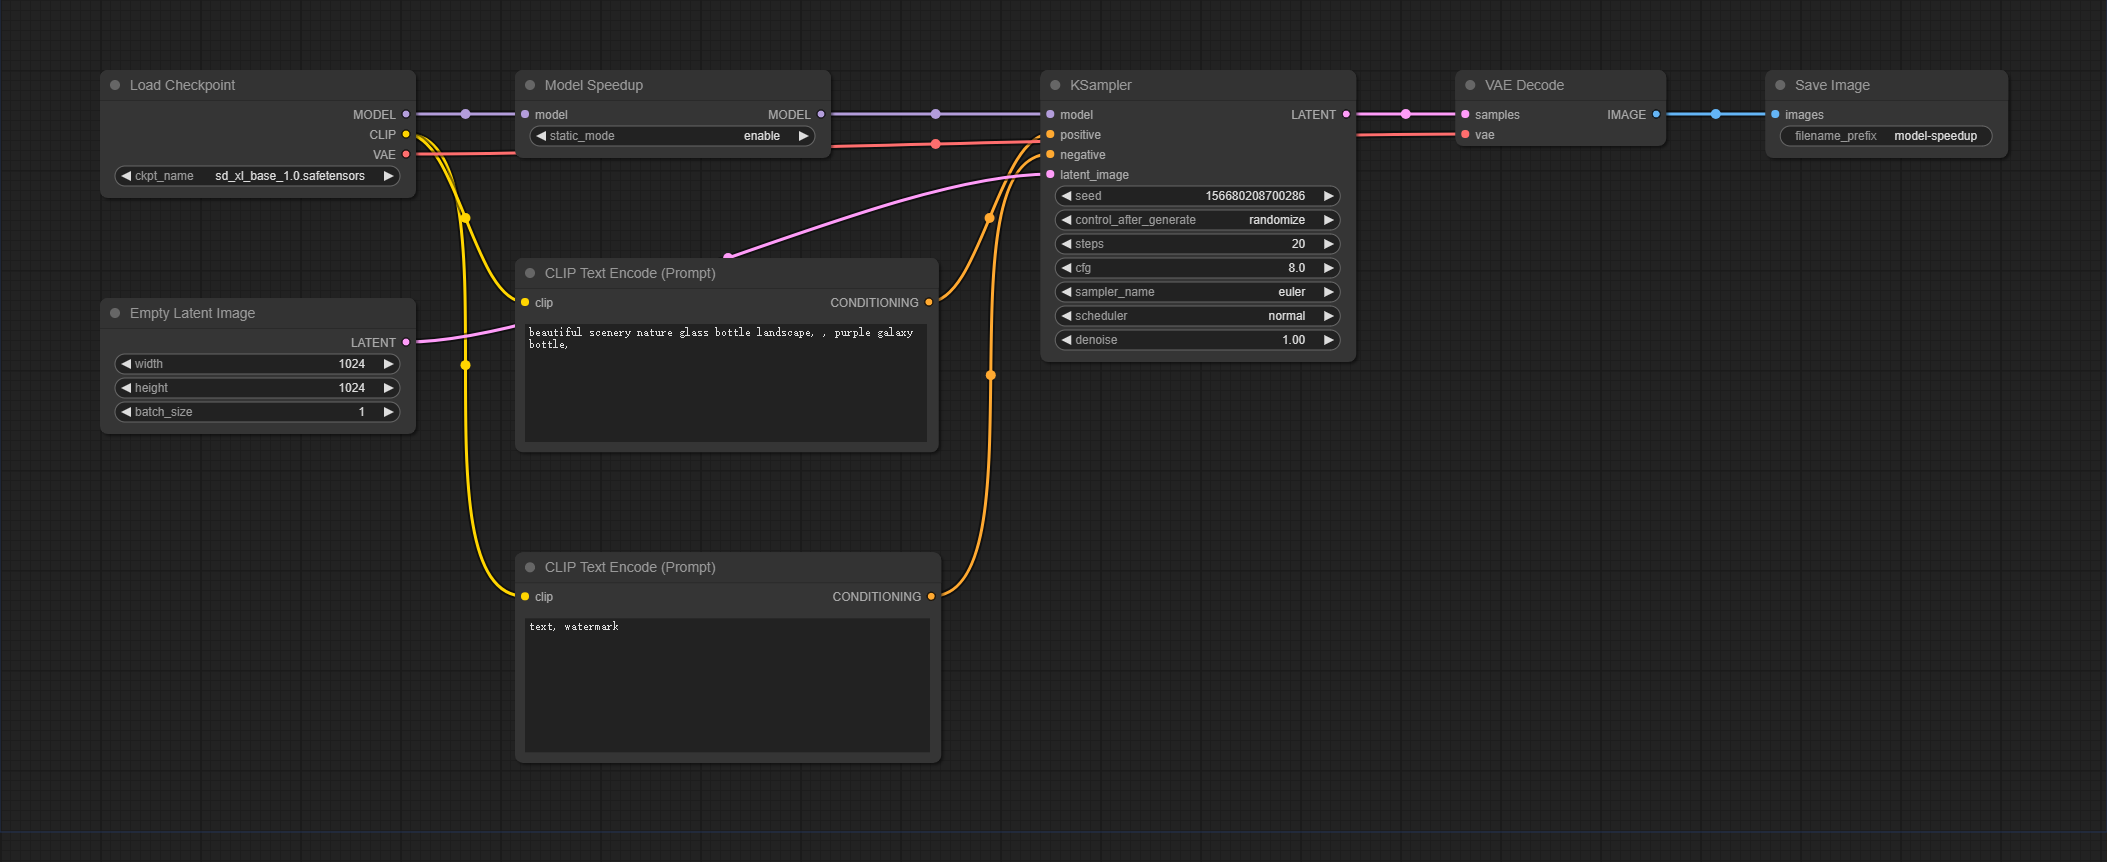
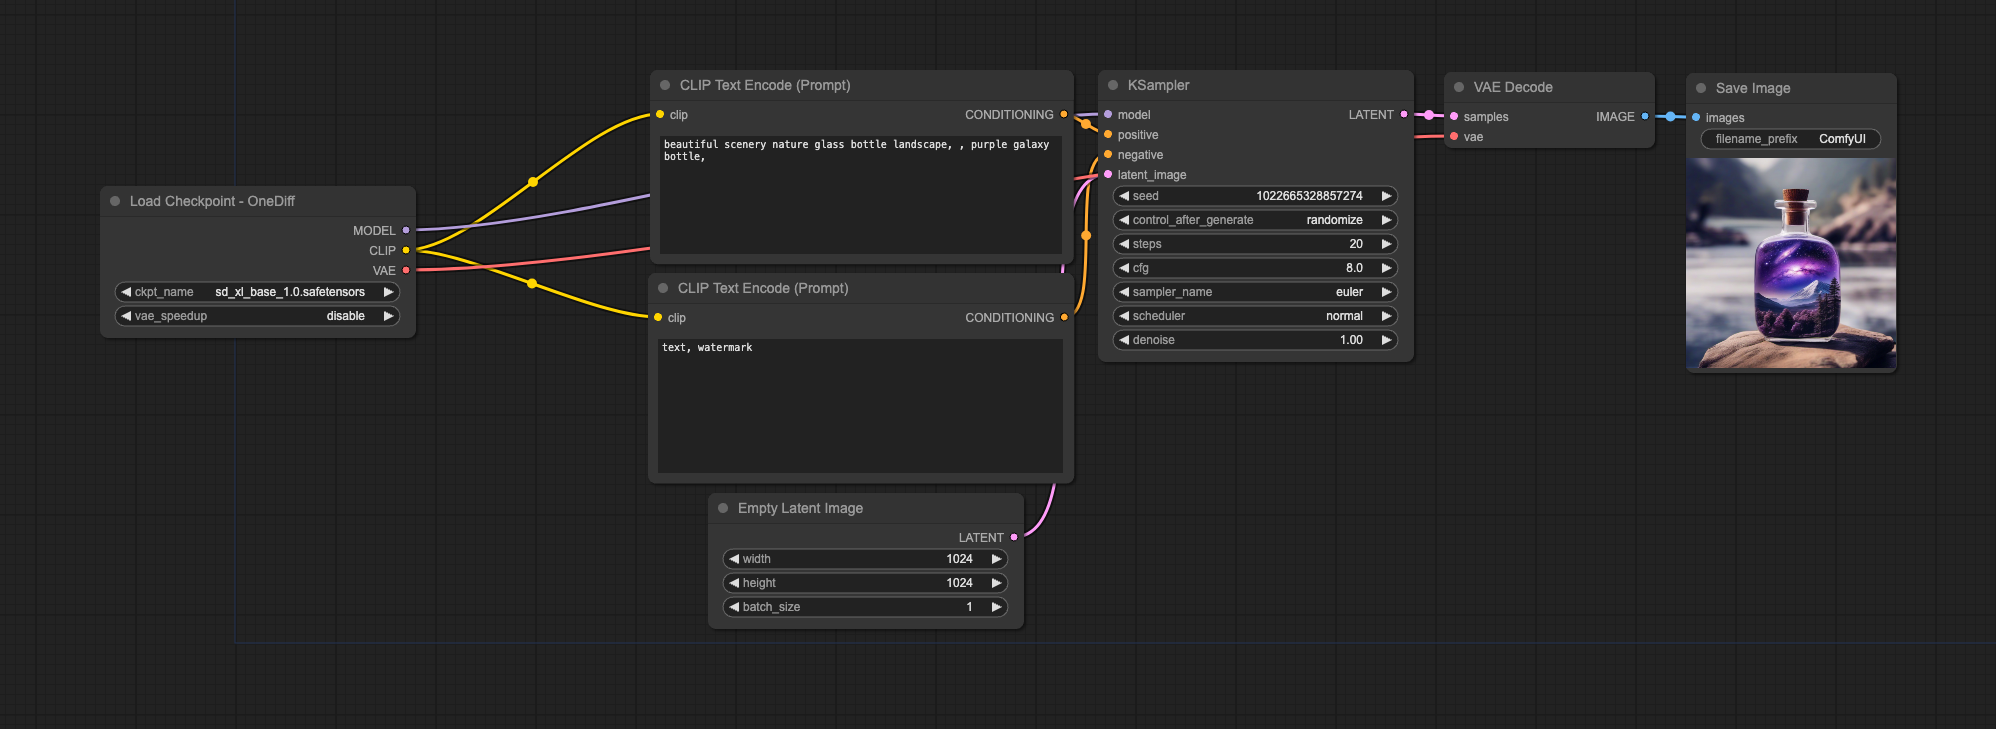
init

diff --git a/onediff_comfy_nodes/README.md b/onediff_comfy_nodes/README.md
@@ -5,17 +5,14 @@
   - [Installation Guide](#installation-guide)
   - [Basical Nodes Usage](#basical-nodes-usage)
     - [Model Acceleration](#model-acceleration)
-      - [Model Speedup](#model-speedup)
-      - [Model Graph Saver](#model-graph-saver)
-      - [Model Graph Loader](#model-graph-loader)
+      - [Load Checkpoint - OneDiff](#load-checkpoint---onediff)
     - [Quantization](#quantization)
     - [Image Distinction Scanner](#image-distinction-scanner)
-  - [Examples](#onediff-community-examples)
+  - [OneDiff Community Examples](#onediff-community-examples)
     - [LoRA](#lora)
     - [ControlNet](#controlnet)
     - [SVD](#svd)
     - [DeepCache](#deepcache)
-
 
 
 ## Performance of Community Edition
@@ -80,29 +77,17 @@ If you need Enterprise Level Support for your system or business, please refer t
 
 ### Model Acceleration
 
-#### Model Speedup
+#### Load Checkpoint - OneDiff
 
-The "Model Speedup" node takes a model as input and outputs an optimized model.
+The "Load Checkpoint - OneDiff" node  is optimized for OneDiff. 
 
-If the `static_mode` is `enabled` (which is the default), it will take some time to compile before the first inference.
-
-If `static_model` is `disabled`, there is no need for additional compilation time before the first inference, but the inference speed will be slower compared to `enabled`, albeit slightly.
+It can be used to load checkpoints and accelerate the model.
 
 ![](workflows/model-speedup.png)
 
-#### Model Graph Saver
 
-The optimized model from the "Model Speedup" node can be saved to "graph" by the "Model Graph Saver" node, allowing it to be used in other scenarios without the need for recompilation.
+The "Load Checkpoint - OneDiff" node  set `vae_speedup` :  `enable` to enable VAE acceleration.
 
-![](workflows/model-graph-saver.png)
-
-You can set different file name prefixes for different types of models.
-
-#### Model Graph Loader
-
-The "Model Graph Loader" node is used to load graph files from the disk, thus saving the time required for the initial compilation.
-
-![](workflows/model-graph-loader.png)
 
 ### Quantization
 
@@ -113,27 +98,6 @@ The "UNet Loader Int8" node is used to load quantized models. Quantized models n
 ![](workflows/int8-speedup.png)
 
 The compilation result of the quantized model can also be saved as a graph and loaded when needed.
-
- 
-![quantized model saver](workflows/int8-graph-saver.png)
-
-![quantized model loader](workflows/int8-graph-loader.png)
-
-
-### VAE Acceleration
-
-The VAE nodes used for accelerating, saving, and loading VAE graphs operate in a manner very similar to the usage of Model nodes.
-
-Omitting specific details here, the following workflow can be loaded and tested.
-
-**VAE Speedup and Graph Saver**
-
-![](workflows/vae-graph-saver.png)
-
-**VAE Speedup and Graph Loader**
-
-![](workflows/vae-graph-loader.png)
-
 
 ### Image Distinction Scanner
 
